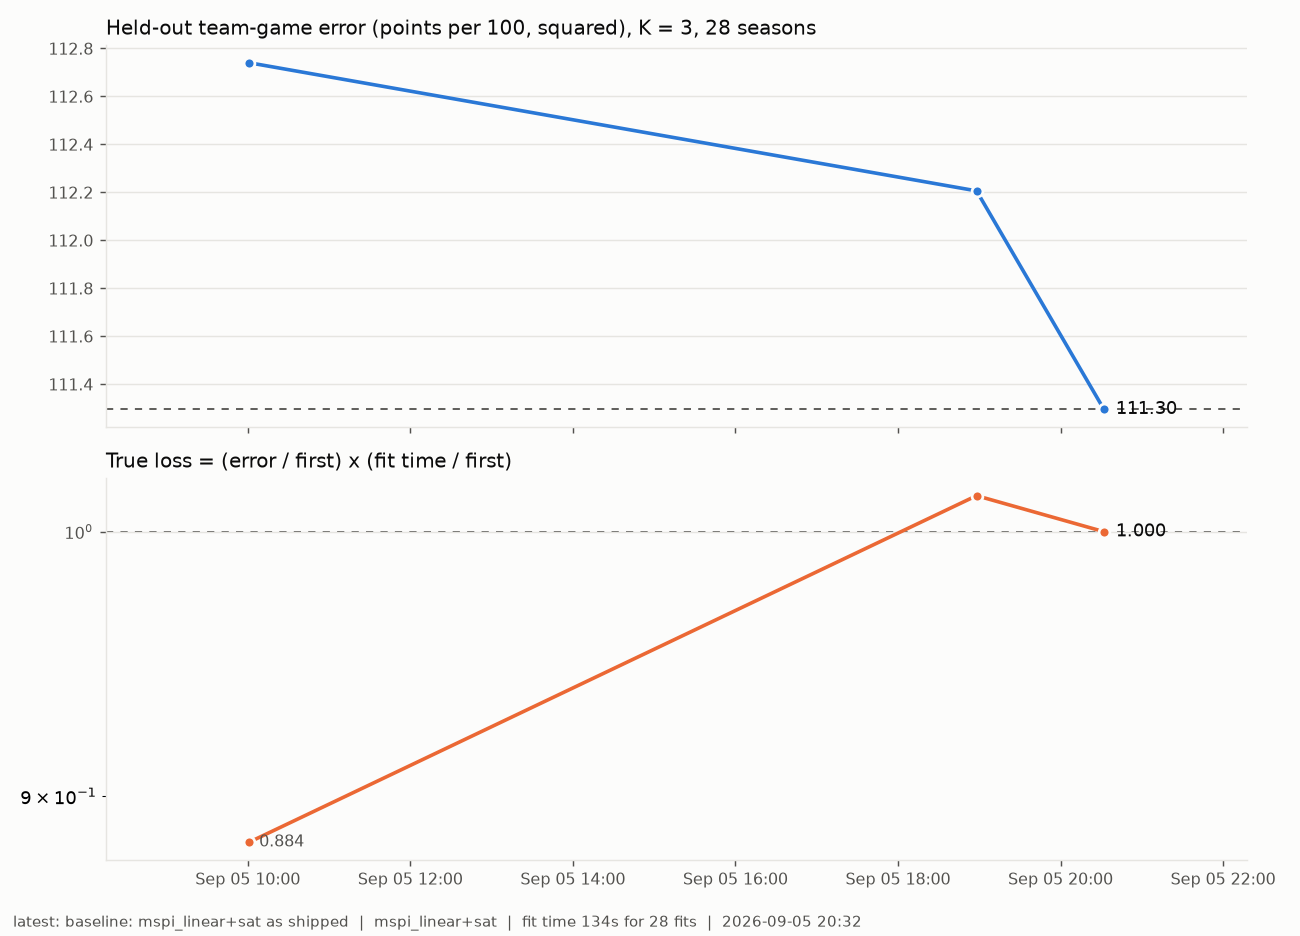
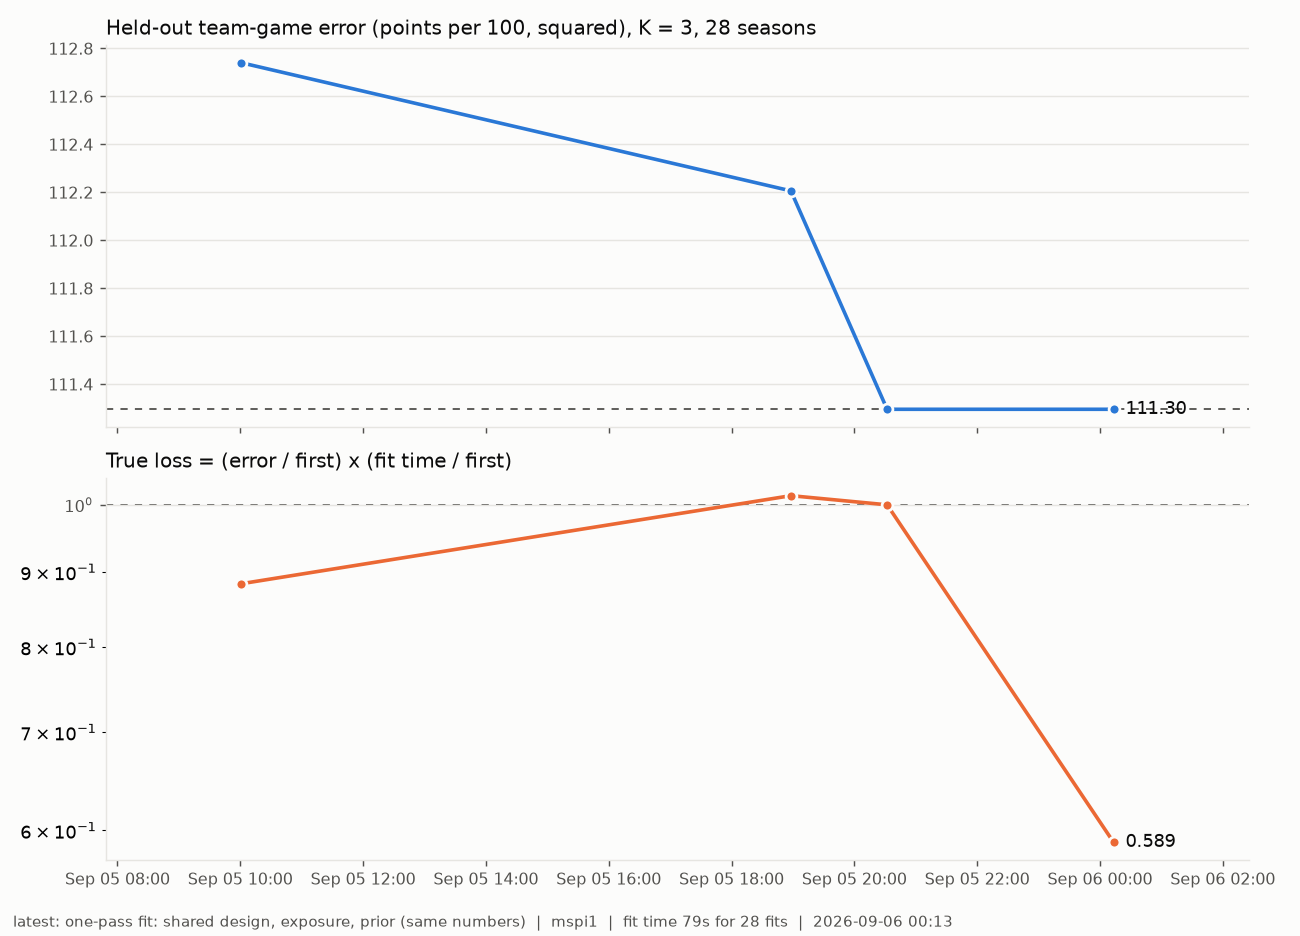
One-pass board fit (fastfit.MspiFast): same ratings, 41% less fit time; tracker dumps then maps

diff --git a/scripts/54_track.py b/scripts/54_track.py
@@ -1,7 +1,11 @@
 """The iterate-and-improve tracker: one system, the K=3 criterion, one row in docs/progress.csv, one chart.
 
-    python scripts/54_track.py --system=mspi_linear+sat --calmap=outputs/calmap_chain.parquet --label="what changed"
-            [--k=3] [--workers=4] [--when=2026-09-05T12:00] [--dry]
+    python scripts/54_track.py --system=mspi --label="what changed" [--maps=linear+sat] [--k=3] [--workers=4]
+            [--when=2026-09-05T12:00] [--dry] [--push]
+
+The system is the UNMAPPED one; the calibration map (calmap.py, `--maps`, default linear+sat on both sides) is
+fitted leave-one-season-out on the dumped ratings and the mapped score is what is logged (`game`), next to the
+unmapped one (`game_unmapped`).
 
 Loss  = the pooled team-game MSE of the held-out seasons (holdout.pooled, column `game`), K = 3 -- the
         shipped block length.  Lower is better.
@@ -38,16 +42,33 @@ def _flag(name, default=None):
     return hit[0].split("=", 1)[1] if hit else default
 
 
-def measure(system: str, k: int, calmap=None, workers: int = 4) -> dict:
+def measure(system: str, k: int, workers: int = 4, maps=("linear+sat",)) -> dict:
+    """Dump the system's ratings once per held-out season (timed), fit the calibration map leave-one-season-out
+    on the dump, score with the criterion's scorer.  Loss = the MAPPED system's pooled team-game error; time = the
+    dump's fit seconds summed over the held-out seasons."""
+    from eracoef.calmap import SideMap, dump_ratings, evaluate, load_frames, unmapped_rows
+    from eracoef.holdout import Context
     ho = Holdout.from_config(cfg, ks=[k])
     t0 = time.time()
-    res, _, _ = run_parallel(ho, [system], out=OUT / f"holdout_track_{system}.parquet", verbose=False,
-                             workers=workers, calmap=calmap)
+    R = dump_ratings(ho, [system], OUT / f"ratings_track_{system}.parquet", workers=workers, verbose=False)
     wall = time.time() - t0
-    r = res[(res.split == "all") & (res.group == "all")]
-    P = pooled(r).iloc[0]
-    return dict(game=float(P.game), stint=float(P.mse), scale_off=float(P.scale_off), scale_def=float(P.scale_def),
-                seconds=float(r.seconds.sum()), wall=float(wall), seasons=int(r.held_out.nunique()))
+    secs = float(R.groupby("held_out").seconds.first().sum())
+    ctx = Context.load(cfg)
+    frames = load_frames(ctx, ho.seasons(), level=ho.level, verbose=False)
+    res, params = [unmapped_rows(R, frames, system, k)], []
+    for fam in maps:
+        fo, fd = (fam.split(":") + [None])[:2]
+        r, p = evaluate(R, frames, system, k, SideMap.parse(fo), SideMap.parse(fd or fo), f"{system}_{fam.replace(':', '_')}")
+        res.append(r)
+        params.append(p)
+    res = pd.concat(res, ignore_index=True)
+    res.to_parquet(OUT / f"holdout_track_{system}.parquet", index=False)
+    pd.concat(params, ignore_index=True).to_parquet(OUT / f"calmap_track_{system}.parquet", index=False)
+    P = pooled(res).set_index("system")
+    mapped = P.loc[f"{system}_{maps[0].replace(':', '_')}"]
+    return dict(game=float(mapped.game), game_unmapped=float(P.loc[system].game), stint=float(mapped.mse),
+                scale_off=float(mapped.scale_off), scale_def=float(mapped.scale_def),
+                seconds=secs, wall=float(wall), seasons=int(res.held_out.nunique()))
 
 
 def append(row: dict) -> pd.DataFrame:
@@ -109,7 +130,7 @@ def main():
     if "--dry" in sys.argv:
         chart(pd.read_csv(LOG, parse_dates=["when"]))
         return
-    m = measure(system, k, calmap=_flag("calmap"), workers=int(_flag("workers", 4)))
+    m = measure(system, k, workers=int(_flag("workers", 4)), maps=tuple((_flag("maps") or "linear+sat").split(",")))
     row = dict(when=when, label=label, system=system, k=k, **m)
     log = append(row)
     chart(log)

diff --git a/src/eracoef/fastfit.py b/src/eracoef/fastfit.py
@@ -1,0 +1,81 @@
+"""The multi-stage board fitted in one pass per block.
+
+`systems.registry`'s `mspi` is a SplitSystem of two PluginSystems (offense on the free-throw target, defense on
+the opponent-3PM-replaced one), and each of the two builds its own design, fits its own BoxExposure, rebuilds
+the role prior and solves the mixed model for both sides.  Everything but the target and the solve is the same
+work twice.  `MspiFast` does it once: one design (the counters give the free-throw target as a linear
+combination, `design.TARGETS`; the defensive target is derived from the same design), one exposure fit, one
+offset, and one ridge solve per side on the shared transformed design.  The ratings are the same numbers.
+
+The knobs are the ones the criterion may still want moved: the ridge (`lam`, `lam_ratio`), the GBDT prior's
+training parameters (`gbdt_params`, chimeraboost overrides, cached per parameter set on the Context), the
+per-side targets.
+"""
+from __future__ import annotations
+
+from dataclasses import dataclass
+
+import numpy as np
+import pandas as pd
+
+from .cv import make_exposure
+from .design import TARGETS
+from .estimator import MixedModelRAPM
+from .holdout import Context, Ratings
+
+
+def derived_target(wd, name: str) -> np.ndarray:
+    """A `design.TARGETS` response recomputed from the design's own counters (the rows are the same, the
+    weight is the same: only y changes)."""
+    tg = TARGETS[name]
+    c = wd.counters
+    num = sum(k * c[col].to_numpy(dtype=float) for col, k in tg["num"].items())
+    den = c[tg["den"]].to_numpy(dtype=float)
+    return tg["scale"] * num / den
+
+
+@dataclass
+class MspiFast:
+    name: str
+    sides: tuple = ("O", "D")
+    mode: str = "full"
+    target: str = "rapm1"
+    scale: float = 1.0
+    gbdt_params: dict | None = None
+    lam: float | None = None
+    lam_ratio: float | None = None
+    off_target: str = "xpts_ft"
+    def_target: str = "x3def"
+
+    def fit(self, train, ctx: Context) -> Ratings:
+        from . import xshoot
+        from .spm import chain_offset
+        cfg = ctx.cfg
+        wd = ctx.design(train, "pts")
+        y_o = derived_target(wd, self.off_target) if self.off_target != "pts" else wd.y
+        if self.def_target == "pts":
+            y_d = wd.y
+        elif self.def_target in TARGETS:
+            y_d = derived_target(wd, self.def_target)
+        else:
+            wd_d = xshoot.DEFENSE_TARGETS[self.def_target](train, cfg, wd)
+            y_d = (wd_d[0] if isinstance(wd_d, tuple) else wd_d).y
+        exp = make_exposure(wd, mode="full", pad_target=cfg["pad_target"]).fit(wd.X, sample_weight=wd.w)
+        Xt = exp.transform(wd.X)
+        off = chain_offset(self.sides, self.mode, scale=self.scale, target=self.target,
+                           params=self.gbdt_params)(train, ctx, wd, exp=exp)
+        nf = len(wd.spec.features)
+        beta = np.zeros(2 * nf)
+        lam = float(cfg["lam_plugin"] if self.lam is None else self.lam)
+        ratio = float(cfg["lam_ratio_plugin"] if self.lam_ratio is None else self.lam_ratio)
+        m = wd.spec.n_ps
+        u = {}
+        for side, y in (("o", y_o), ("d", y_d)):
+            mm = MixedModelRAPM(lam=lam, lam_ratio=ratio, beta_fixed=beta, prior_offset=off, spec=wd.spec)
+            mm.fit(Xt, np.asarray(y, dtype=float), sample_weight=wd.w)
+            u[side] = np.asarray(mm.u_, dtype=float)
+        df = pd.DataFrame({"player_id": wd.spec.ps_table["player_id"].to_numpy(),
+                           "o": off[:m] + u["o"][:m], "d": off[m:] + u["d"][m:],
+                           "poss": np.asarray(exp.season_poss_off_, dtype=float),
+                           "prior_o": off[:m], "prior_d": off[m:]})
+        return Ratings(df)

diff --git a/src/eracoef/spm.py b/src/eracoef/spm.py
@@ -135,7 +135,8 @@ def season_of_units(wd) -> np.ndarray:
     return np.asarray(wd.spec.seasons, dtype=np.int64)[np.asarray(wd.spec.season_of_ps, dtype=np.int64)]
 
 
-def chain_offset(gbdt_sides=(), mode: str = "residual", scale: float = 1.0, target: str = "rapm1") -> Callable:
+def chain_offset(gbdt_sides=(), mode: str = "residual", scale: float = 1.0, target: str = "rapm1",
+                 params: dict | None = None) -> Callable:
     """The per-player offset builder for a PluginSystem.  Signature `offset(train, ctx, wd) -> (2 * n_ps,)`,
     raw sign, possession-centred per side.
 
@@ -153,7 +154,7 @@ def chain_offset(gbdt_sides=(), mode: str = "residual", scale: float = 1.0, targ
     # trained on the shrunk RAPM_1 is too timid: starters want 1.2, deep bench 2.0); `target` = "apm" uses
     # the chain trained on unshrunk APM instead (ctx.mspi_apm)
 
-    def offset(train, ctx, wd) -> np.ndarray:
+    def offset(train, ctx, wd, exp=None) -> np.ndarray:
         if ctx.rpanel is None or ctx.role_inputs is None:
             raise RuntimeError("outputs/role_panel.parquet or data/cache/roles.parquet is missing; "
                                "run scripts/49_role_panel.py")
@@ -161,7 +162,8 @@ def chain_offset(gbdt_sides=(), mode: str = "residual", scale: float = 1.0, targ
         s = cfg.get("spm", {})
         exclude = ctx.labels(train)
         inputs = window_inputs(wd, ctx.role_inputs, cap=float(cfg.get("roles", {}).get("share_cap", 0.9)))
-        exp = make_exposure(wd, mode="full", pad_target=cfg["pad_target"]).fit(wd.X, sample_weight=wd.w)
+        if exp is None:
+            exp = make_exposure(wd, mode="full", pad_target=cfg["pad_target"]).fit(wd.X, sample_weight=wd.w)
         poss_o = np.asarray(exp.season_poss_off_, dtype=float)
         poss_d = np.asarray(exp.season_poss_def_, dtype=float)
         m = wd.spec.n_ps
@@ -169,7 +171,10 @@ def chain_offset(gbdt_sides=(), mode: str = "residual", scale: float = 1.0, targ
         fd = fit_spm(ctx.rpanel, "D", exclude, pen=float(s.get("pen", 1.0)), min_poss=float(s.get("min_poss", 500)))
         off = spm_offset(fo, fd, inputs, poss_o, poss_d)
         if sides:
-            prior = ctx.gbdt if mode == "residual" else getattr(ctx, "mspi_apm" if target == "apm" else "mspi", None)
+            if params:
+                prior = ctx.prior(mode, "apm" if target == "apm" else None, params)
+            else:
+                prior = ctx.gbdt if mode == "residual" else getattr(ctx, "mspi_apm" if target == "apm" else "mspi", None)
             if prior is None:
                 raise RuntimeError(f"Context has no GBDT prior for mode {mode!r} (outputs/role_panel.parquet)")
             from .gbdt_prior import gbdt_offset

diff --git a/src/eracoef/holdout.py b/src/eracoef/holdout.py
@@ -108,6 +108,7 @@ class Context:
     _teams: dict = field(default_factory=dict, repr=False)
     _bigness: dict = field(default_factory=dict, repr=False)
     _bench: dict = field(default_factory=dict, repr=False)
+    _priors: dict = field(default_factory=dict, repr=False)   # GBDTPrior per (mode, target, params), see prior()
     reports: list = field(default_factory=list, repr=False)
 
     @classmethod
@@ -132,6 +133,18 @@ class Context:
             ctx.mspi = GBDTPrior(ctx.rpanel, cfg, mode="full")
             ctx.mspi_apm = GBDTPrior(ctx.rpanel, cfg, mode="full", target_col="apm")   # trained on unshrunk APM
         return ctx
+
+    def prior(self, mode: str, target_col: str | None, params: dict):
+        """A GBDTPrior with chimeraboost overrides `params`, built once per (mode, target, params) on this Context."""
+        key = (mode, target_col, tuple(sorted((params or {}).items())))
+        if key not in self._priors:
+            if self.rpanel is None:
+                raise RuntimeError("outputs/role_panel.parquet is missing; run scripts/49_role_panel.py")
+            from .gbdt_prior import GBDTPrior
+            p = GBDTPrior(self.rpanel, self.cfg, mode=mode, target_col=target_col)
+            p.params = dict(params or {})
+            self._priors[key] = p
+        return self._priors[key]
 
     def bigness(self, season: int, min_minutes: float = 500.0) -> dict:
         """player_id -> True if in the top tercile of the big-man score (orb + blk + 0.3 drb - 0.5 ast - 0.4 fg3m

diff --git a/src/eracoef/calmap.py b/src/eracoef/calmap.py
@@ -48,12 +48,15 @@ def dump_systems(ho: Holdout, systems: list, ctx: Context, held=None, verbose: b
             ctx.current_k = k
             train = ctx.neighbourhood(h, k)
             for s in systems:
+                t1 = time.time()
                 rat = _fit(s, train, ctx, ho.lams[0])
+                secs = time.time() - t1
                 d = rat.df.copy()
                 for c in ("prior_o", "prior_d"):
                     if c not in d.columns:
                         d[c] = np.nan
-                rows.append(d.assign(held_out=int(h), k=int(k), system=s.name, fill_o=rat.fill_o, fill_d=rat.fill_d))
+                rows.append(d.assign(held_out=int(h), k=int(k), system=s.name, fill_o=rat.fill_o, fill_d=rat.fill_d,
+                                     seconds=secs))
         if verbose:
             print(f"  {h} dumped ({time.time() - t0:.0f}s)", flush=True)
     ctx.current_h = None

diff --git a/src/eracoef/systems.py b/src/eracoef/systems.py
@@ -69,6 +69,9 @@ def registry(cfg, rankmap=None, calmap=None) -> dict:
             S[f"mspi_apm_s{sc:g}".replace(".", "")] = chain(f"mspi_apm_s{sc:g}".replace(".", ""), ("O", "D"), mode="full",
                                                           scale=sc, target="apm")
 
+        # the same board in one pass per block (fastfit.py): identical numbers, about half the time
+        from .fastfit import MspiFast
+        S["mspi1"] = MspiFast("mspi1")
         # the APM-trained offense with the RAPM_1-trained defense (each side's calibrated version)
         S["mspi_mix"] = SplitSystem("mspi_mix", offense=S["mspi_apm"], defense=S["mspi"])
         # a replacement level for players the block never saw, on the board and on the chains
